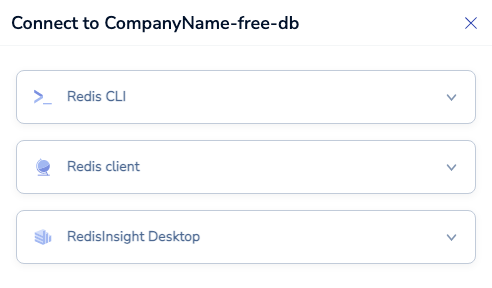
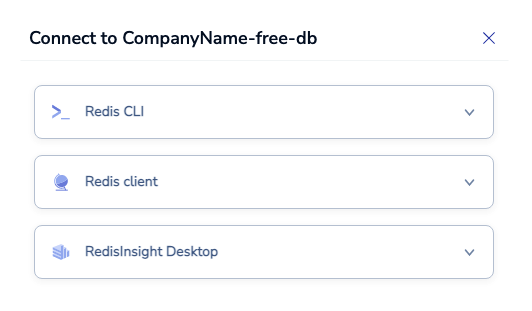
Move and add whitespace to connection wizard image

diff --git a/content/rc/rc-quickstart.md b/content/rc/rc-quickstart.md
@@ -74,8 +74,6 @@ Once you have the username and password, select the **Connect** button to open t
 
 ![Connect button](/images/rc/connection-wizard-button.png#no-click "Connect button.")
 
-{{<image filename="images/rc/connection-wizard.png" width="75%" alt="The connection wizard." >}}{{< /image >}}
-
 The connection wizard shows how to connect to your database with the following methods:
 
 - Using the `redis-cli` utility
@@ -83,6 +81,8 @@ The connection wizard shows how to connect to your database with the following m
 - Using a [Redis client](https://redis.io/clients) for your preferred programming language
 
 - Using [RedisInsight](https://redis.com/redis-enterprise/redis-insight/)
+
+{{<image filename="images/rc/connection-wizard.png" alt="The connection wizard." >}}{{< /image >}}
 
 ### redis-cli (via Docker){#using-rediscli}
 
@@ -126,7 +126,7 @@ Run the following commands to create a `redis` Docker container and connect to y
 
     To try other Redis commands, see the [commands reference](https://redis.io/commands/) for help.
 
-### Redis client
+### Redis client{#using-redis-client}
 
 Different programming languages use different connection clients to interact with Redis databases, and each client has its own syntax and installation process. For help with a specific client, see the client's documentation.
 
@@ -175,7 +175,7 @@ Here's how to connect to your database using the [redis-py](https://github.com/r
     world
     ```
 
-### RedisInsight
+### RedisInsight{#using-redisinsight}
 
 RedisInsight is a free Redis GUI that is available for MacOS, Windows, and Linux.
 
